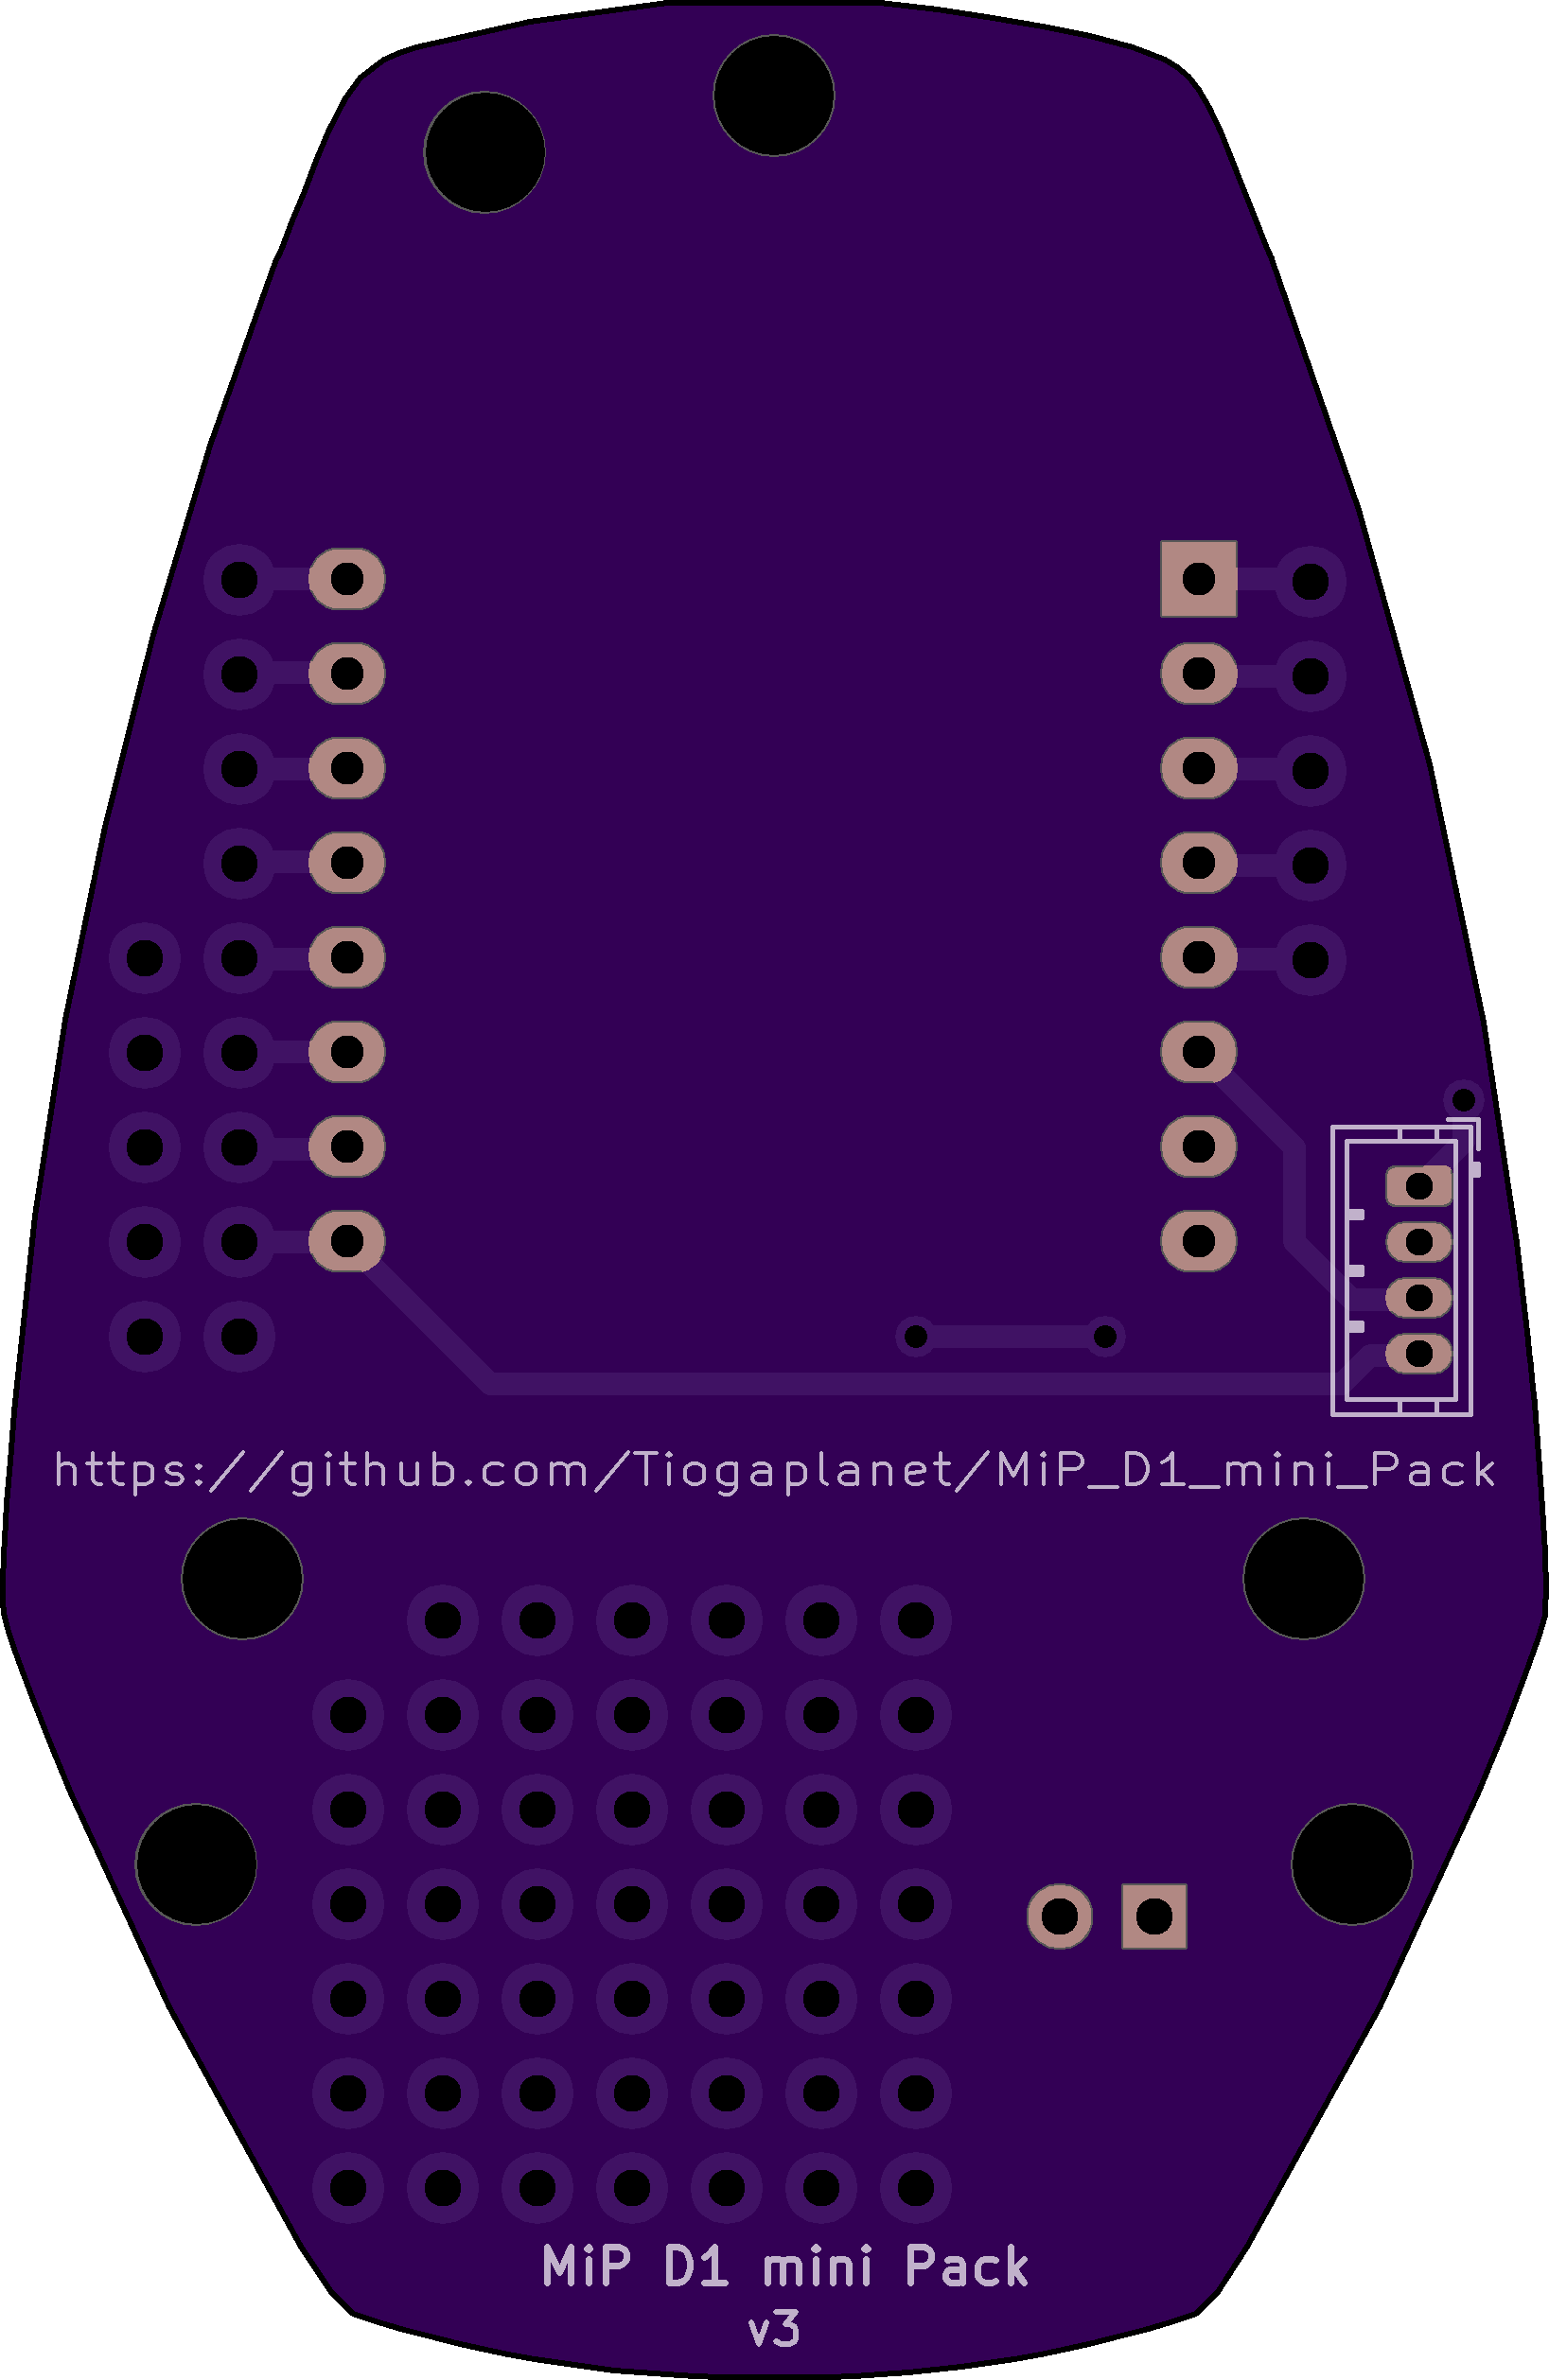
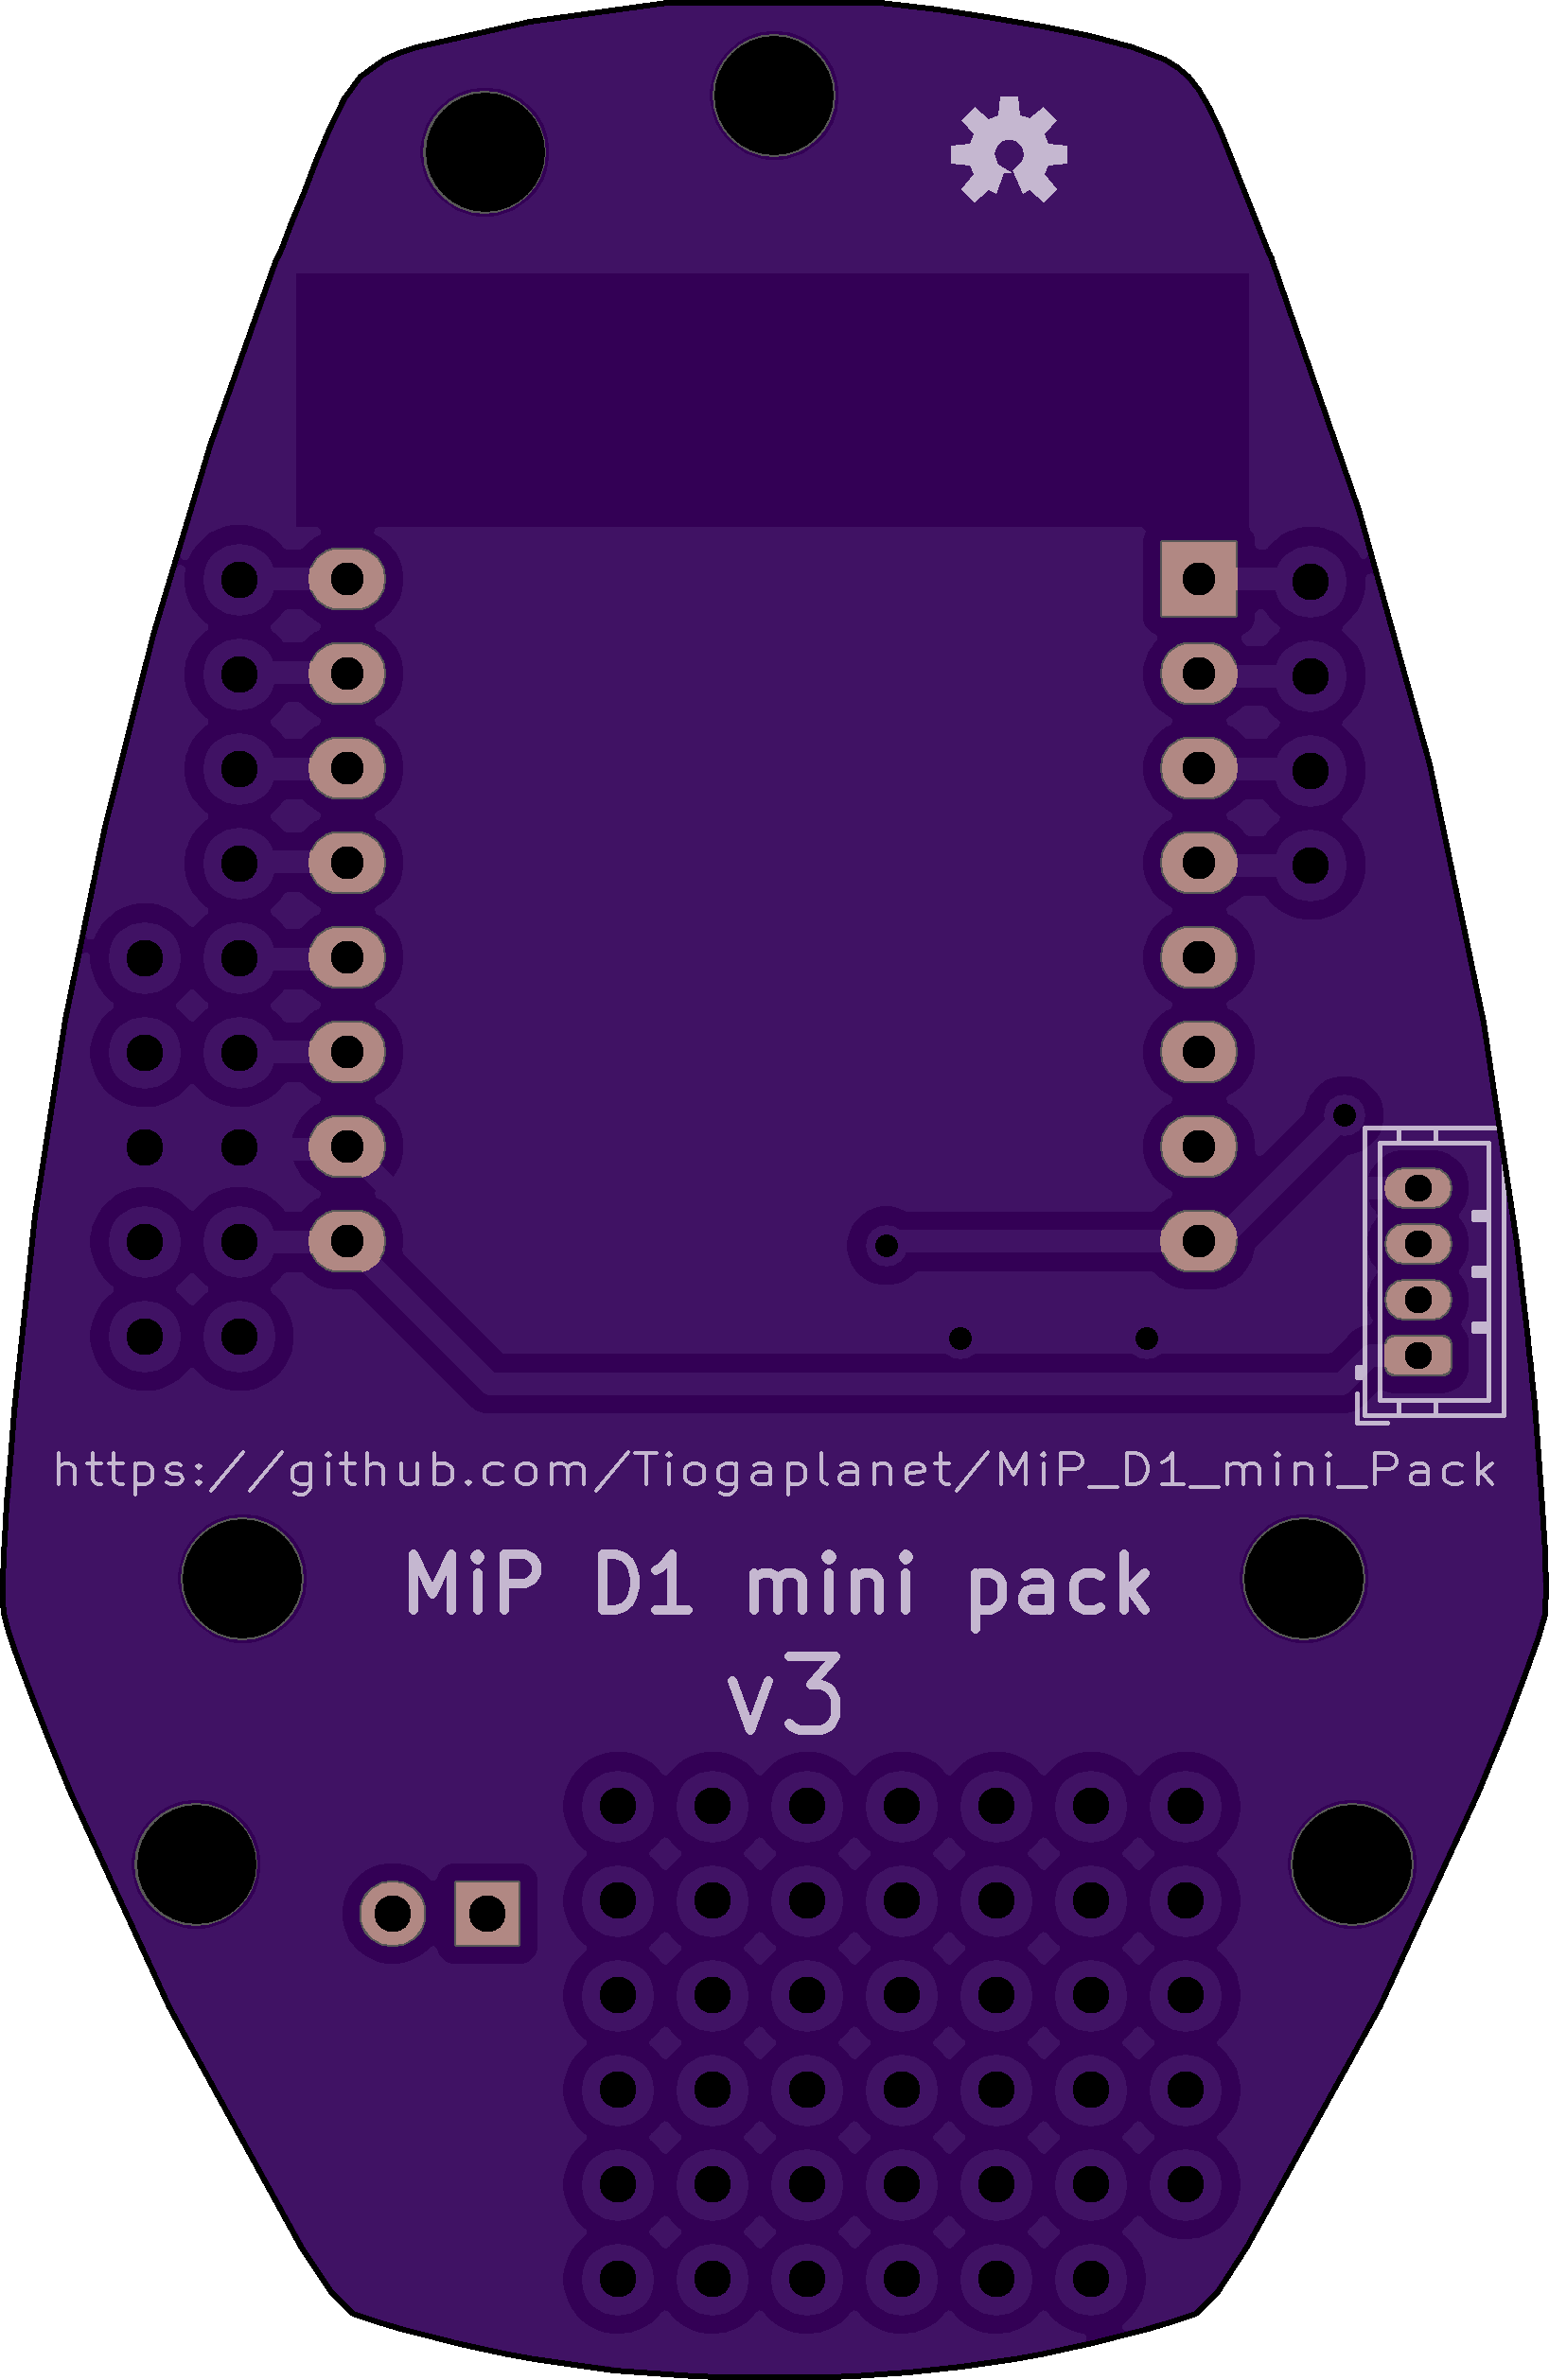
Upload v3 board images

diff --git a/README.md b/README.md
@@ -1,22 +1,22 @@
 # MiP D1 mini pack
-A [D1 mini](https://wiki.wemos.cc/products:d1:d1_mini) adapter board for [WowWee Labs'](https://github.com/WowWeeLabs/) [MiP](https://wowwee.com/mip) robot.  Similar to the [MiP ProMini Pack](https://github.com/adamgreen/MiP_ProMini-Pack), this board adapts the D1 mini and compatible boards to MiP.  Either install the D1 mini Pack in a pair of pin headers or solder it directly to the board and you'll be programming MiP to connect to the Internet in no time.
+A [D1 mini](https://wiki.wemos.cc/products:d1:d1_mini) adapter board for [WowWee Labs'](https://github.com/WowWeeLabs/) [MiP](https://wowwee.com/mip) robot.  Similar to the [MiP ProMini Pack](https://github.com/adamgreen/MiP_ProMini-Pack), this board adapts the D1 mini and compatible boards to MiP.  Either install the D1 mini pack in a pair of pin headers or solder it directly to the board and you'll be programming MiP to connect to the Internet in no time.
 
 ## Acknowledgment
 * As always, a big "thank you" goes out to [adamgreen](https://github.com/adamgreen/).  Without his help I'd still be wondering why my MiP won't talk to an Arduino.  Now, it's talking to the Internet!
 * I'd also like to thank [Casey Kuhns](https://github.com/caseykuhns) who while at [SparkFun](https://github.com/sparkfun) developed the original [ProMini Pack](https://github.com/sparkfun/mip_promini-pack) and the [ProtoPack](https://github.com/sparkfun/mip_proto-pack) which provided the foundation for this project.
 
 ## OSH Park renderings
-<img src="https://github.com/Tiogaplanet/MiP_D1-mini-Pack/raw/v3/images/top.png" alt="The top of the MiP D1 mini pack" width="300">
+<img src="https://github.com/Tiogaplanet/MiP_D1-mini_pack/raw/v3/images/top.png" alt="The top of the MiP D1 mini pack" width="300">
 
-<img src="https://github.com/Tiogaplanet/MiP_D1-mini-Pack/raw/v3/images/bottom.png" alt="The bottom of the MiP D1 mini pack" width="300">
+<img src="https://github.com/Tiogaplanet/MiP_D1-mini_pack/raw/v3/images/bottom.png" alt="The bottom of the MiP D1 mini pack" width="300">
 
 ## Installation
-Please see the [wiki](https://github.com/Tiogaplanet/MiP_D1-mini-Pack/wiki) for up-to-date installation instructions.
+Please see the [wiki](https://github.com/Tiogaplanet/MiP_D1-mini_pack/wiki) for up-to-date installation instructions.
 
 ## Disclaimer
 I am a hobbyiest sharing this designed-at-home board with fans of robotics, MiP and the ESP8266 wifi chip.  While I strive to make this board as useful and "right" as it can be, in no way shall I be responsible for any damage that may occur to your MiP or D1 mini either incidently or directly through the use of this board.  You use this board at your own risk.
 
-If you are experienced in robotics or circuit design and spot something that can or should be improved, please review [CONTRIBUTING.md](https://github.com/Tiogaplanet/MiP_D1-mini-Pack/blob/master/CONTRIBUTING.md) and submit a pull request.
+If you are experienced in robotics or circuit design and spot something that can or should be improved, please review [CONTRIBUTING.md](https://github.com/Tiogaplanet/MiP_D1-mini_pack/blob/master/CONTRIBUTING.md) and submit a pull request.
 
 ## License
 Shield: [![CC BY-SA 4.0][cc-by-sa-shield]][cc-by-sa]